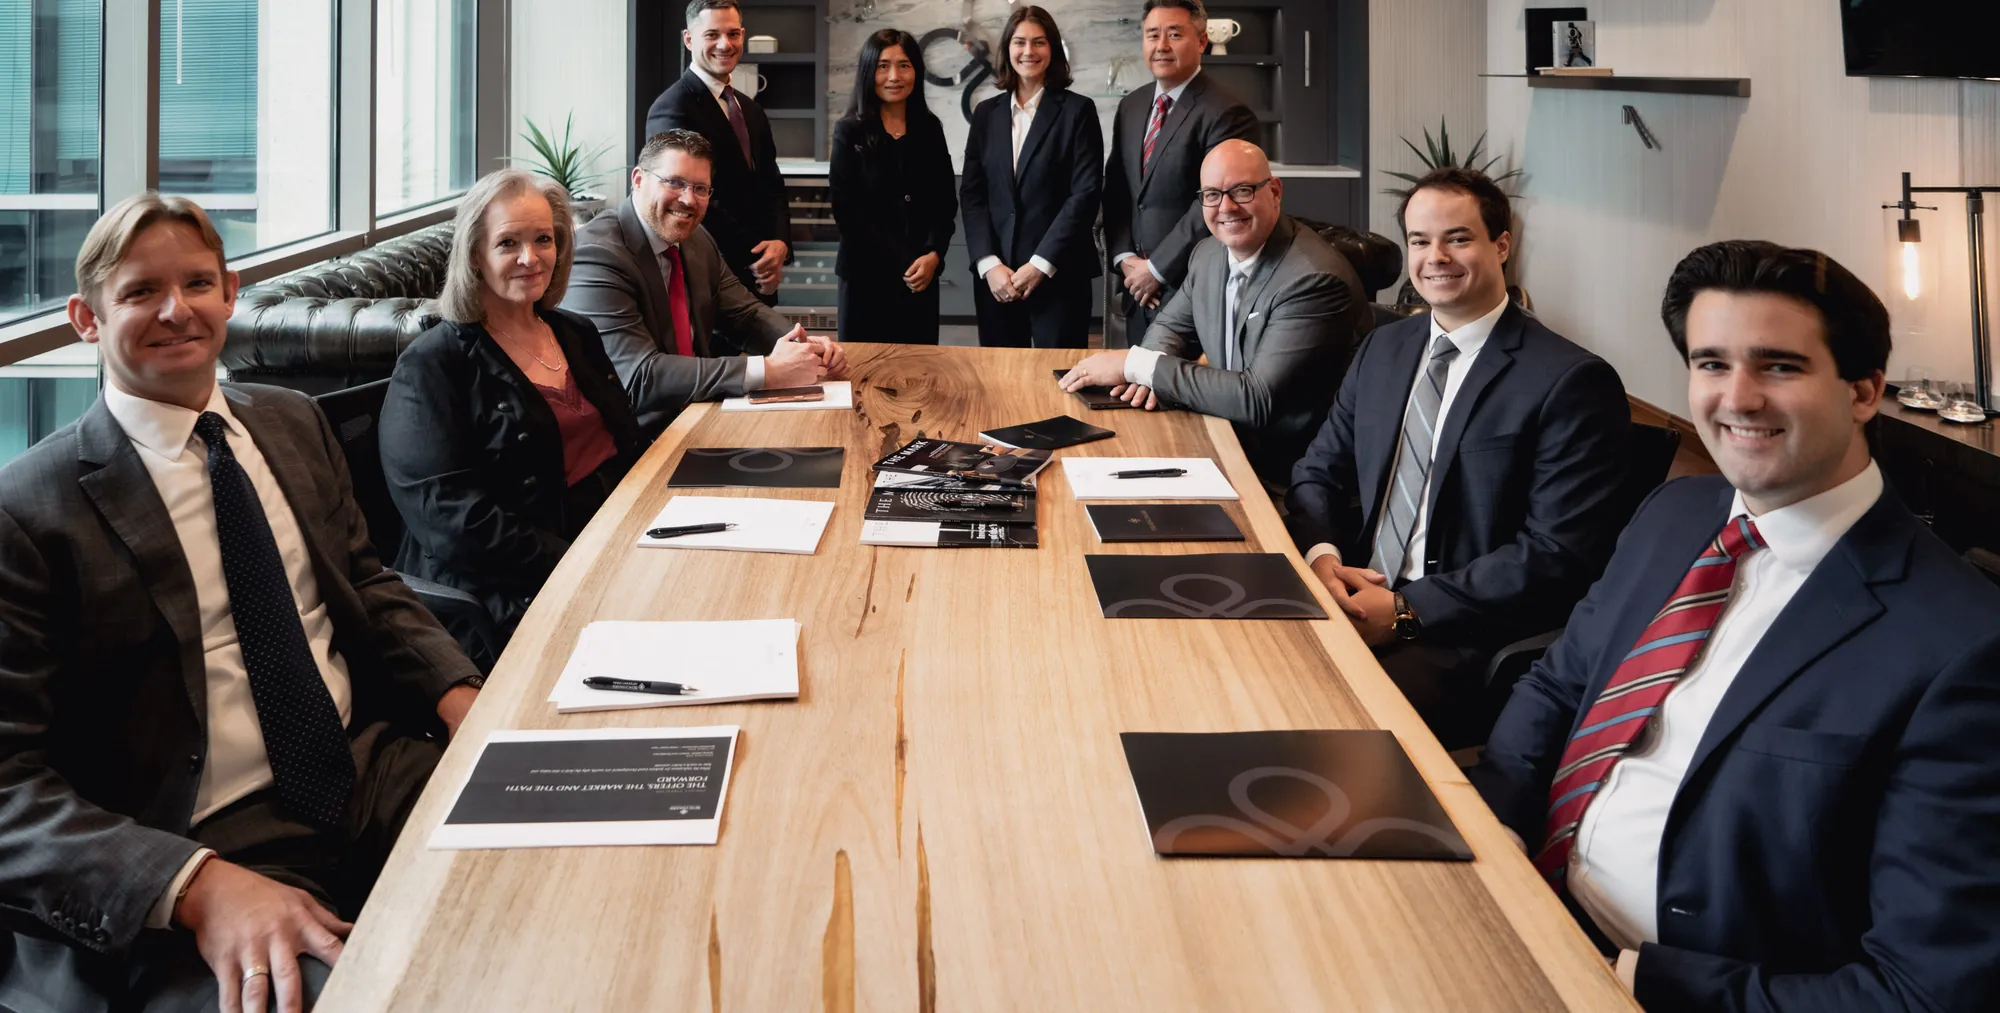
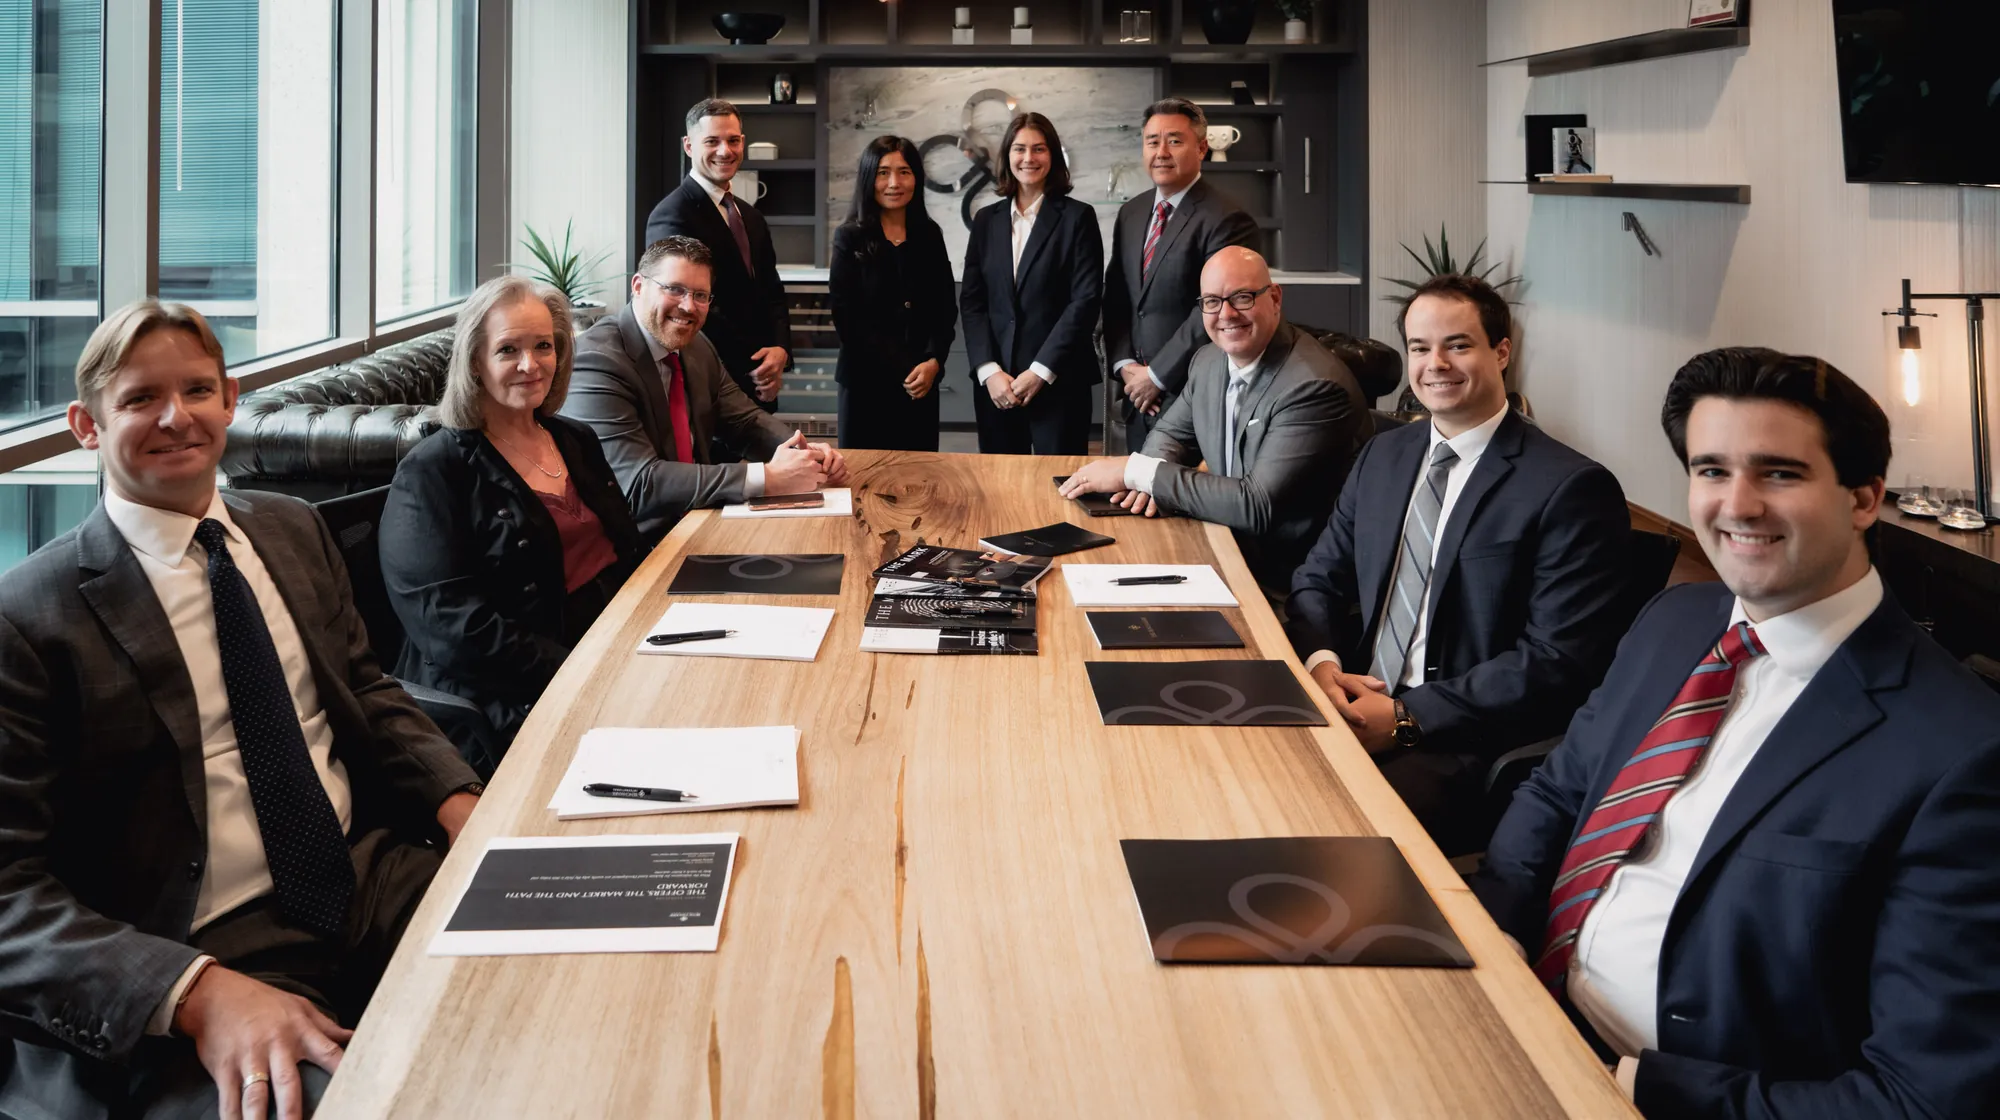
Home hero: headroom on two group slides, lighter loading (#92)
More headroom on the standing group and boardroom slides; later slides load at low priority.

diff --git a/mmt-sandbox-pvxyebvoxa/index.html b/mmt-sandbox-pvxyebvoxa/index.html
@@ -53,7 +53,7 @@
 </header>
 <main id="main">
 
-<style>@keyframes reel { 0% { opacity: 0; transform: scale(1.06); } 3.75% { opacity: 1; } 16.25% { opacity: 1; transform: scale(1); } 20.00% { opacity: 0; transform: scale(1); } 100% { opacity: 0; transform: scale(1); } }</style><section class="hero hero--photo hero--reel"><div class="hero-media hero-reel" aria-hidden="true" style="--slides: 8; --reel: 40s"><img class="reel-intro" src="assets/img/brand/knot-dark.jpg" alt="" width="1920" height="1080"><picture><source media="(max-aspect-ratio: 1/1)" srcset="assets/img/team-photos/dsc06700-crop-sm.webp"><img src="assets/img/team-photos/dsc06817-crop.webp" srcset="assets/img/team-photos/dsc06817-crop-sm.webp 1000w, assets/img/team-photos/dsc06817-crop.webp 2000w" sizes="100vw" alt="" width="2000" height="734" fetchpriority="high" class="reel-slide" style="--pos: 60% 0%; --pos-narrow: 50% 0%; animation-delay: 1.5s"></picture><picture><source media="(max-aspect-ratio: 1/1)" srcset="assets/img/team-photos/dsc07220-crop-sm.webp"><img src="assets/img/team-photos/dsc07116-crop.webp" srcset="assets/img/team-photos/dsc07116-crop-sm.webp 1000w, assets/img/team-photos/dsc07116-crop.webp 2000w" sizes="100vw" alt="" width="2000" height="1373" class="reel-slide" style="--pos: 85% 0%; --pos-narrow: 52% 0%; animation-delay: 6.5s"></picture><picture><source media="(max-aspect-ratio: 1/1)" srcset="assets/img/team-photos/dsc07245-crop-sm.webp"><img src="assets/img/team-photos/dsc06557-crop.webp" srcset="assets/img/team-photos/dsc06557-crop-sm.webp 1000w, assets/img/team-photos/dsc06557-crop.webp 2000w" sizes="100vw" alt="" width="2000" height="1269" class="reel-slide" style="--pos: 68% 0%; --pos-narrow: 50% 0%; animation-delay: 11.5s"></picture><picture><source media="(max-aspect-ratio: 1/1)" srcset="assets/img/team-photos/dsc07251-crop-sm.webp"><img src="assets/img/team-photos/dsc07374-crop.webp" srcset="assets/img/team-photos/dsc07374-crop-sm.webp 1000w, assets/img/team-photos/dsc07374-crop.webp 2000w" sizes="100vw" alt="" width="2000" height="1000" class="reel-slide" style="--pos: 50% 0%; --pos-narrow: 50% 0%; animation-delay: 16.5s"></picture><picture><source media="(max-aspect-ratio: 1/1)" srcset="assets/img/team-photos/dsc07264-crop-sm.webp"><img src="assets/img/team-photos/dsc07161-crop.webp" srcset="assets/img/team-photos/dsc07161-crop-sm.webp 1000w, assets/img/team-photos/dsc07161-crop.webp 2000w" sizes="100vw" alt="" width="2000" height="1134" class="reel-slide" style="--pos: 78% 0%; --pos-narrow: 50% 0%; animation-delay: 21.5s"></picture><picture><source media="(max-aspect-ratio: 1/1)" srcset="assets/img/team-photos/dsc07260-crop-sm.webp"><img src="assets/img/team-photos/dsc07005-crop.webp" srcset="assets/img/team-photos/dsc07005-crop-sm.webp 1000w, assets/img/team-photos/dsc07005-crop.webp 2000w" sizes="100vw" alt="" width="2000" height="1013" class="reel-slide" style="--pos: 50% 0%; --pos-narrow: 50% 0%; animation-delay: 26.5s"></picture><picture><source media="(max-aspect-ratio: 1/1)" srcset="assets/img/team-photos/dsc06886-crop-sm.webp"><img src="assets/img/team-photos/dsc06947-crop.webp" srcset="assets/img/team-photos/dsc06947-crop-sm.webp 1000w, assets/img/team-photos/dsc06947-crop.webp 2000w" sizes="100vw" alt="" width="2000" height="1133" class="reel-slide" style="--pos: 66% 0%; --pos-narrow: 45% 0%; animation-delay: 31.5s"></picture><picture><source media="(max-aspect-ratio: 1/1)" srcset="assets/img/team-photos/dsc07130-crop-sm.webp"><img src="assets/img/team-photos/dsc07204-crop.webp" srcset="assets/img/team-photos/dsc07204-crop-sm.webp 1000w, assets/img/team-photos/dsc07204-crop.webp 2000w" sizes="100vw" alt="" width="2000" height="1227" class="reel-slide" style="--pos: 66% 0%; --pos-narrow: 74% 0%; animation-delay: 36.5s"></picture></div>
+<style>@keyframes reel { 0% { opacity: 0; transform: scale(1.06); } 3.75% { opacity: 1; } 16.25% { opacity: 1; transform: scale(1); } 20.00% { opacity: 0; transform: scale(1); } 100% { opacity: 0; transform: scale(1); } }</style><section class="hero hero--photo hero--reel"><div class="hero-media hero-reel" aria-hidden="true" style="--slides: 8; --reel: 40s"><img class="reel-intro" src="assets/img/brand/knot-dark.jpg" alt="" width="1920" height="1080"><picture><source media="(max-aspect-ratio: 1/1)" srcset="assets/img/team-photos/dsc06700-crop-sm.webp"><img src="assets/img/team-photos/dsc06817-crop.webp" srcset="assets/img/team-photos/dsc06817-crop-sm.webp 1000w, assets/img/team-photos/dsc06817-crop.webp 2000w" sizes="100vw" alt="" width="2000" height="734" fetchpriority="high" class="reel-slide" style="--pos: 60% 0%; --pos-narrow: 50% 0%; animation-delay: 1.5s"></picture><picture><source media="(max-aspect-ratio: 1/1)" srcset="assets/img/team-photos/dsc07220-crop-sm.webp"><img src="assets/img/team-photos/dsc07116-crop.webp" srcset="assets/img/team-photos/dsc07116-crop-sm.webp 1000w, assets/img/team-photos/dsc07116-crop.webp 2000w" sizes="100vw" alt="" width="2000" height="1373" fetchpriority="low" decoding="async" class="reel-slide" style="--pos: 85% 0%; --pos-narrow: 52% 0%; animation-delay: 6.5s"></picture><picture><source media="(max-aspect-ratio: 1/1)" srcset="assets/img/team-photos/dsc07245-crop-sm.webp"><img src="assets/img/team-photos/dsc06557-crop.webp" srcset="assets/img/team-photos/dsc06557-crop-sm.webp 1000w, assets/img/team-photos/dsc06557-crop.webp 2000w" sizes="100vw" alt="" width="2000" height="1269" fetchpriority="low" decoding="async" class="reel-slide" style="--pos: 68% 0%; --pos-narrow: 50% 0%; animation-delay: 11.5s"></picture><picture><source media="(max-aspect-ratio: 1/1)" srcset="assets/img/team-photos/dsc07251-crop-sm.webp"><img src="assets/img/team-photos/dsc07374-crop.webp" srcset="assets/img/team-photos/dsc07374-crop-sm.webp 1000w, assets/img/team-photos/dsc07374-crop.webp 2000w" sizes="100vw" alt="" width="2000" height="1107" fetchpriority="low" decoding="async" class="reel-slide" style="--pos: 50% 0%; --pos-narrow: 50% 0%; animation-delay: 16.5s"></picture><picture><source media="(max-aspect-ratio: 1/1)" srcset="assets/img/team-photos/dsc07264-crop-sm.webp"><img src="assets/img/team-photos/dsc07161-crop.webp" srcset="assets/img/team-photos/dsc07161-crop-sm.webp 1000w, assets/img/team-photos/dsc07161-crop.webp 2000w" sizes="100vw" alt="" width="2000" height="1134" fetchpriority="low" decoding="async" class="reel-slide" style="--pos: 78% 0%; --pos-narrow: 50% 0%; animation-delay: 21.5s"></picture><picture><source media="(max-aspect-ratio: 1/1)" srcset="assets/img/team-photos/dsc07260-crop-sm.webp"><img src="assets/img/team-photos/dsc07005-crop.webp" srcset="assets/img/team-photos/dsc07005-crop-sm.webp 1000w, assets/img/team-photos/dsc07005-crop.webp 2000w" sizes="100vw" alt="" width="2000" height="1120" fetchpriority="low" decoding="async" class="reel-slide" style="--pos: 50% 0%; --pos-narrow: 50% 0%; animation-delay: 26.5s"></picture><picture><source media="(max-aspect-ratio: 1/1)" srcset="assets/img/team-photos/dsc06886-crop-sm.webp"><img src="assets/img/team-photos/dsc06947-crop.webp" srcset="assets/img/team-photos/dsc06947-crop-sm.webp 1000w, assets/img/team-photos/dsc06947-crop.webp 2000w" sizes="100vw" alt="" width="2000" height="1133" fetchpriority="low" decoding="async" class="reel-slide" style="--pos: 66% 0%; --pos-narrow: 45% 0%; animation-delay: 31.5s"></picture><picture><source media="(max-aspect-ratio: 1/1)" srcset="assets/img/team-photos/dsc07130-crop-sm.webp"><img src="assets/img/team-photos/dsc07204-crop.webp" srcset="assets/img/team-photos/dsc07204-crop-sm.webp 1000w, assets/img/team-photos/dsc07204-crop.webp 2000w" sizes="100vw" alt="" width="2000" height="1227" fetchpriority="low" decoding="async" class="reel-slide" style="--pos: 66% 0%; --pos-narrow: 74% 0%; animation-delay: 36.5s"></picture></div>
   <div class="wrap">
     <p class="eyebrow">Benchmark International · <span class="nowrap">Middle Market</span></p>
     <h1 class="display">Your Legacy Is Built. <em>Your Next Chapter Awaits.</em></h1>

diff --git a/mmt-sandbox-pvxyebvoxa/_build/build.py b/mmt-sandbox-pvxyebvoxa/_build/build.py
@@ -808,7 +808,6 @@ def deals_in(slug):
 # section keeps the individual headshots in assets/img/team/.
 TEAM_PHOTOS = {p["name"]: p for p in json.load(open(os.path.join(SITE, "assets", "img", "team-photos", "photos.json")))}
 TEAM_PHOTO = {
-    "home-hero": "dsc06817",      # the open office, so the hero isn't a team shot right before the boardroom stats band
     "stats": "dsc07322",          # the full boardroom
     "journey-1": "dsc07199",      # Understand Your Options: a one-on-one conversation
     "journey-2": "dsc06716",      # Be Positioned to Win: analysis at the desk
@@ -870,7 +869,8 @@ def hero_carousel(root=""):
         ph, nph = TEAM_PHOTOS[name], TEAM_PHOTOS[narrow]
         big, small, tall = ph["crop"], ph["crop_small"], nph["crop_small"]
         delay = HERO_INTRO_SECONDS + i * d  # the knot background shows first, then each slide fades in on its turn
-        priority = ' fetchpriority="high"' if i == 0 else ""
+        # the first photo gets the bandwidth; the rest load quietly behind it (they appear 5 s apart)
+        priority = ' fetchpriority="high"' if i == 0 else ' fetchpriority="low" decoding="async"'
         slides.append(
             f'<picture><source media="{HERO_NARROW}" srcset="{root}assets/img/team-photos/{tall["file"]}">'
             f'<img src="{root}assets/img/team-photos/{big["file"]}" '

diff --git a/mmt-sandbox-pvxyebvoxa/_build/team_photos.py b/mmt-sandbox-pvxyebvoxa/_build/team_photos.py
@@ -47,9 +47,9 @@ CROPS = {
     # 'flip' mirrors the photo.
     'dsc07116': (0.0, 0.03, 1.0, 1.0, 0.25, 0.85),   # Alexandra with two colleagues by the window
     'dsc06557': (0.0, 0.05, 1.0, 1.0, 0.25, 0.68),   # Alex smiling at his desk
-    'dsc07374': (0.0, 0.23, 1.0, 0.98, 0.40, 0.50),  # the standing group, Alexandra in the center
+    'dsc07374': (0.0, 0.15, 1.0, 0.98, 0.40, 0.50),  # the standing group, Alexandra in the center
     'dsc07161': (0.0, 0.15, 1.0, 1.0, 0.35, 0.78),   # Alex at the boardroom table
-    'dsc07005': (0.0, 0.24, 1.0, 1.0, 0.40, 0.50),   # the full boardroom
+    'dsc07005': (0.0, 0.16, 1.0, 1.0, 0.40, 0.50),   # the full boardroom
     'dsc06947': (0.0, 0.15, 1.0, 1.0, 0.30, 0.66),   # Jordan laughing at the table
     # Tall shots shown in place of the wide ones on phones and portrait tablets (one person each, so no one is sliced
     # at the sides); same rules: start just above the head, pinned to the top, centered on the person.
